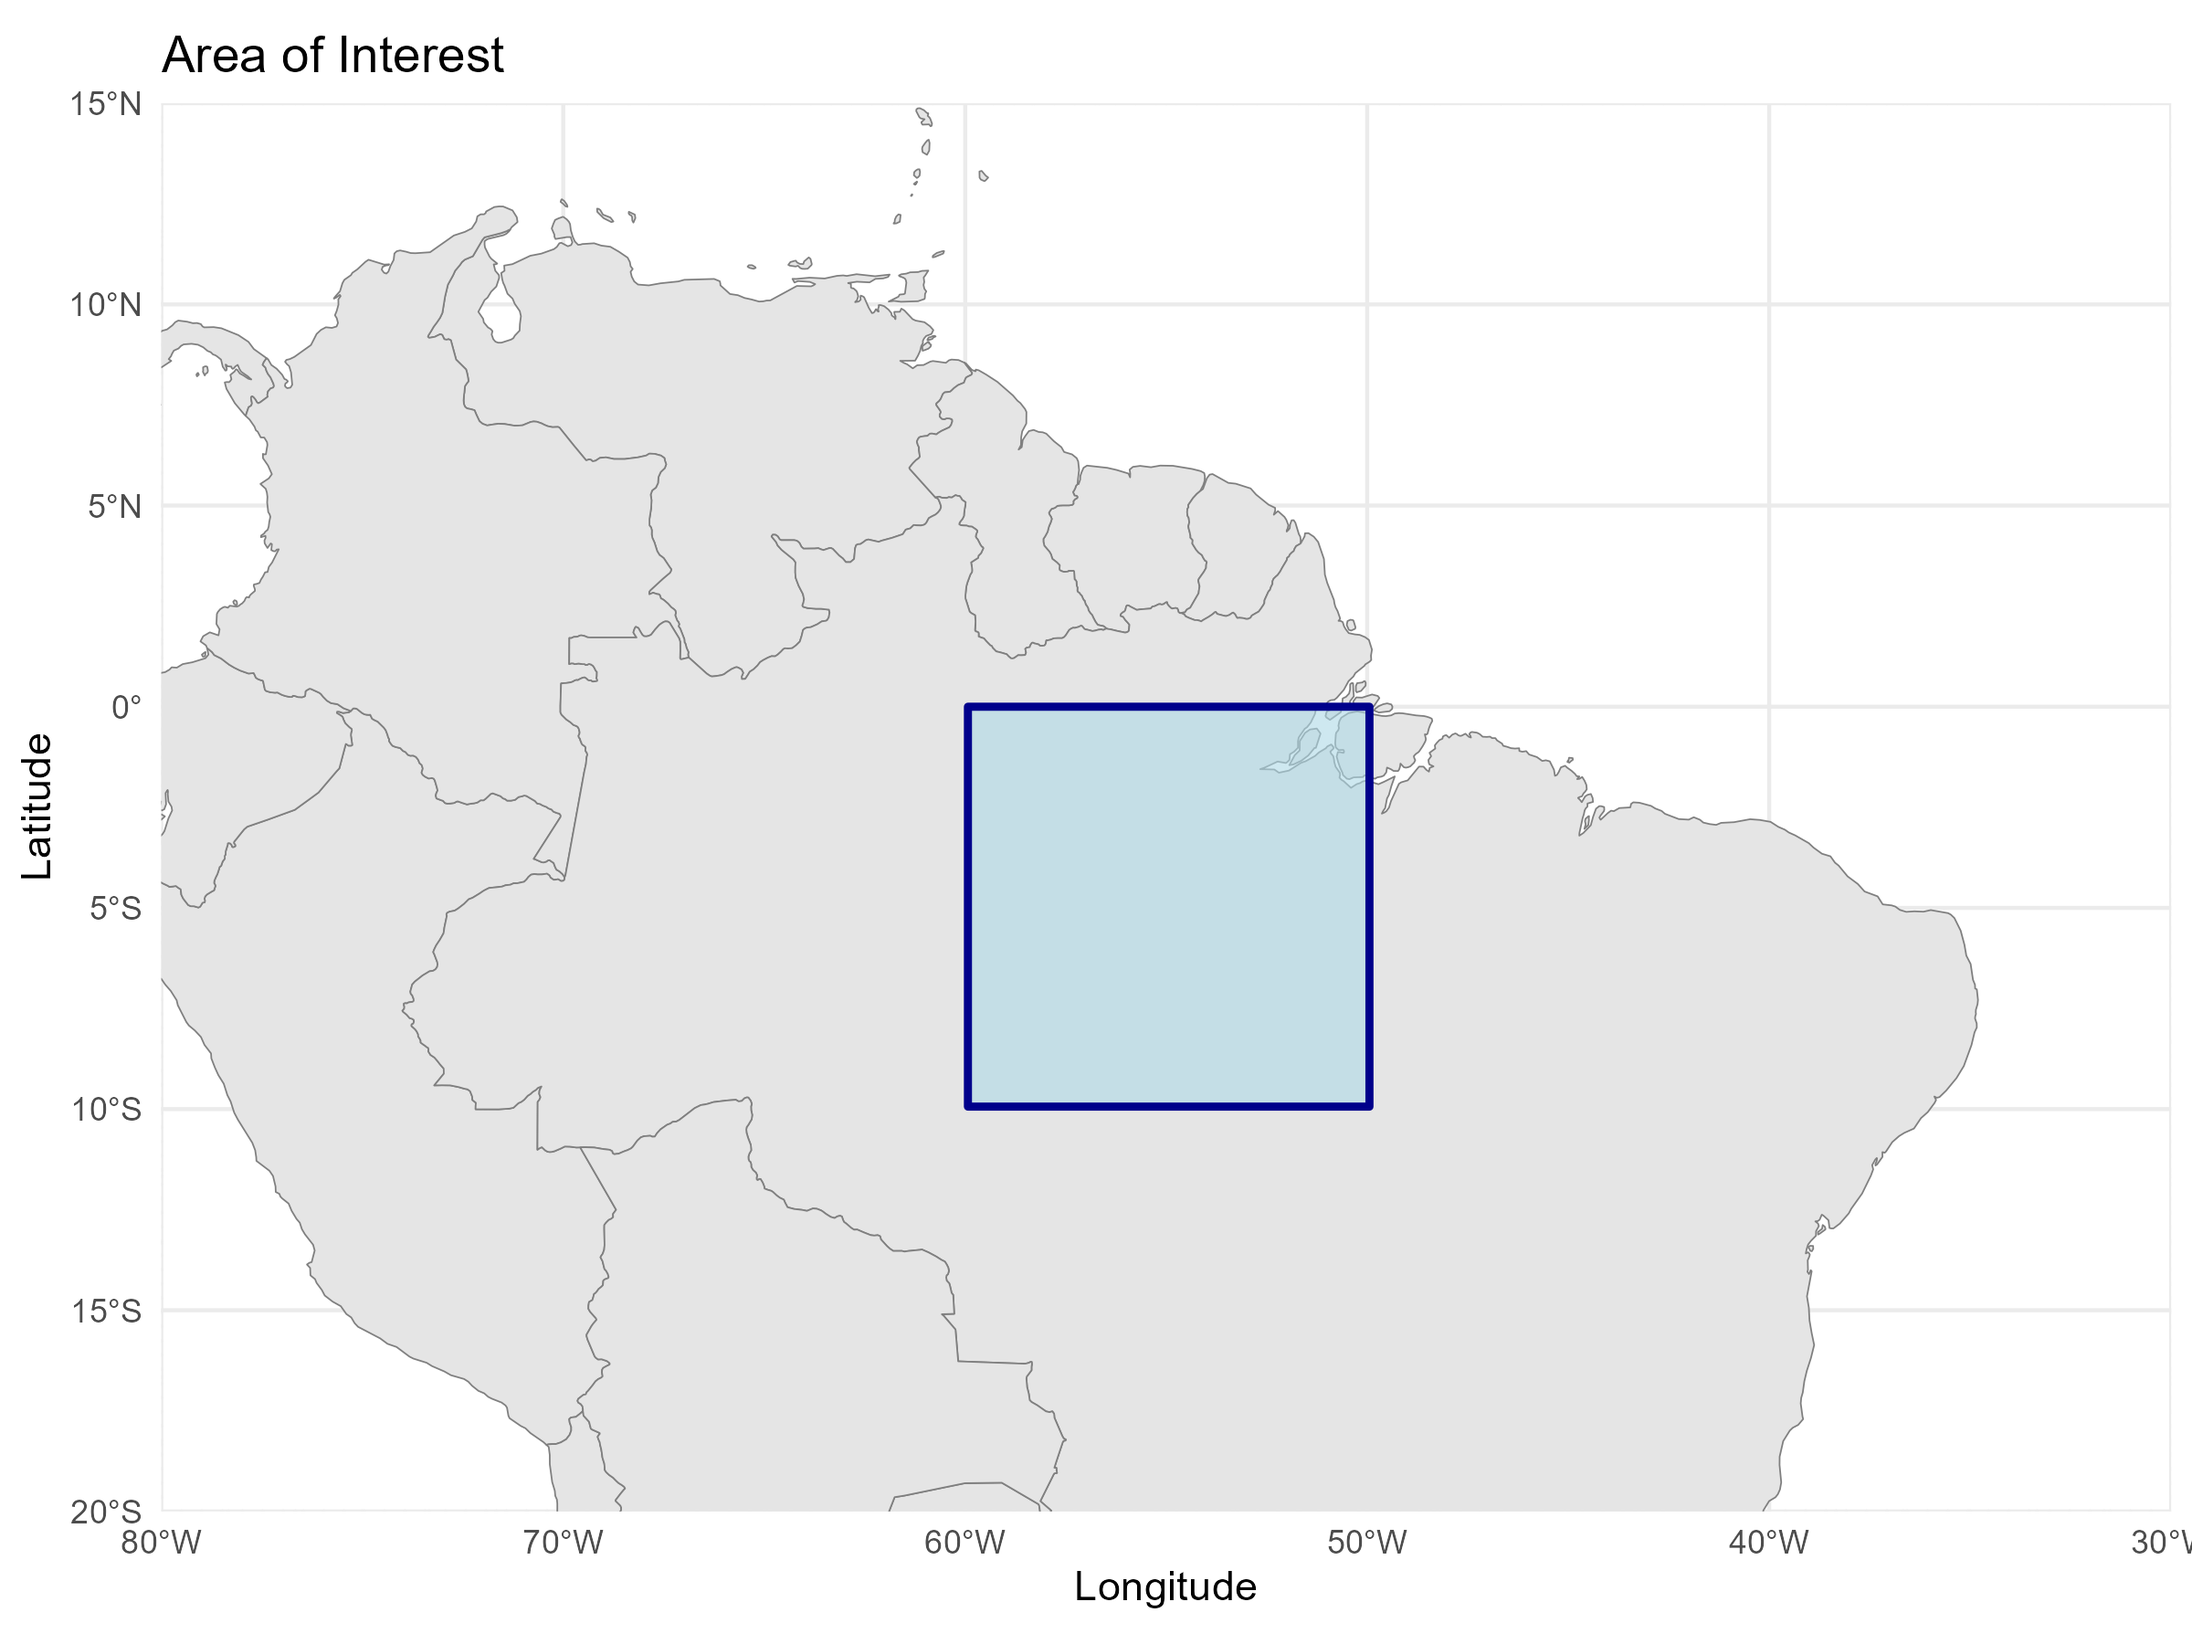
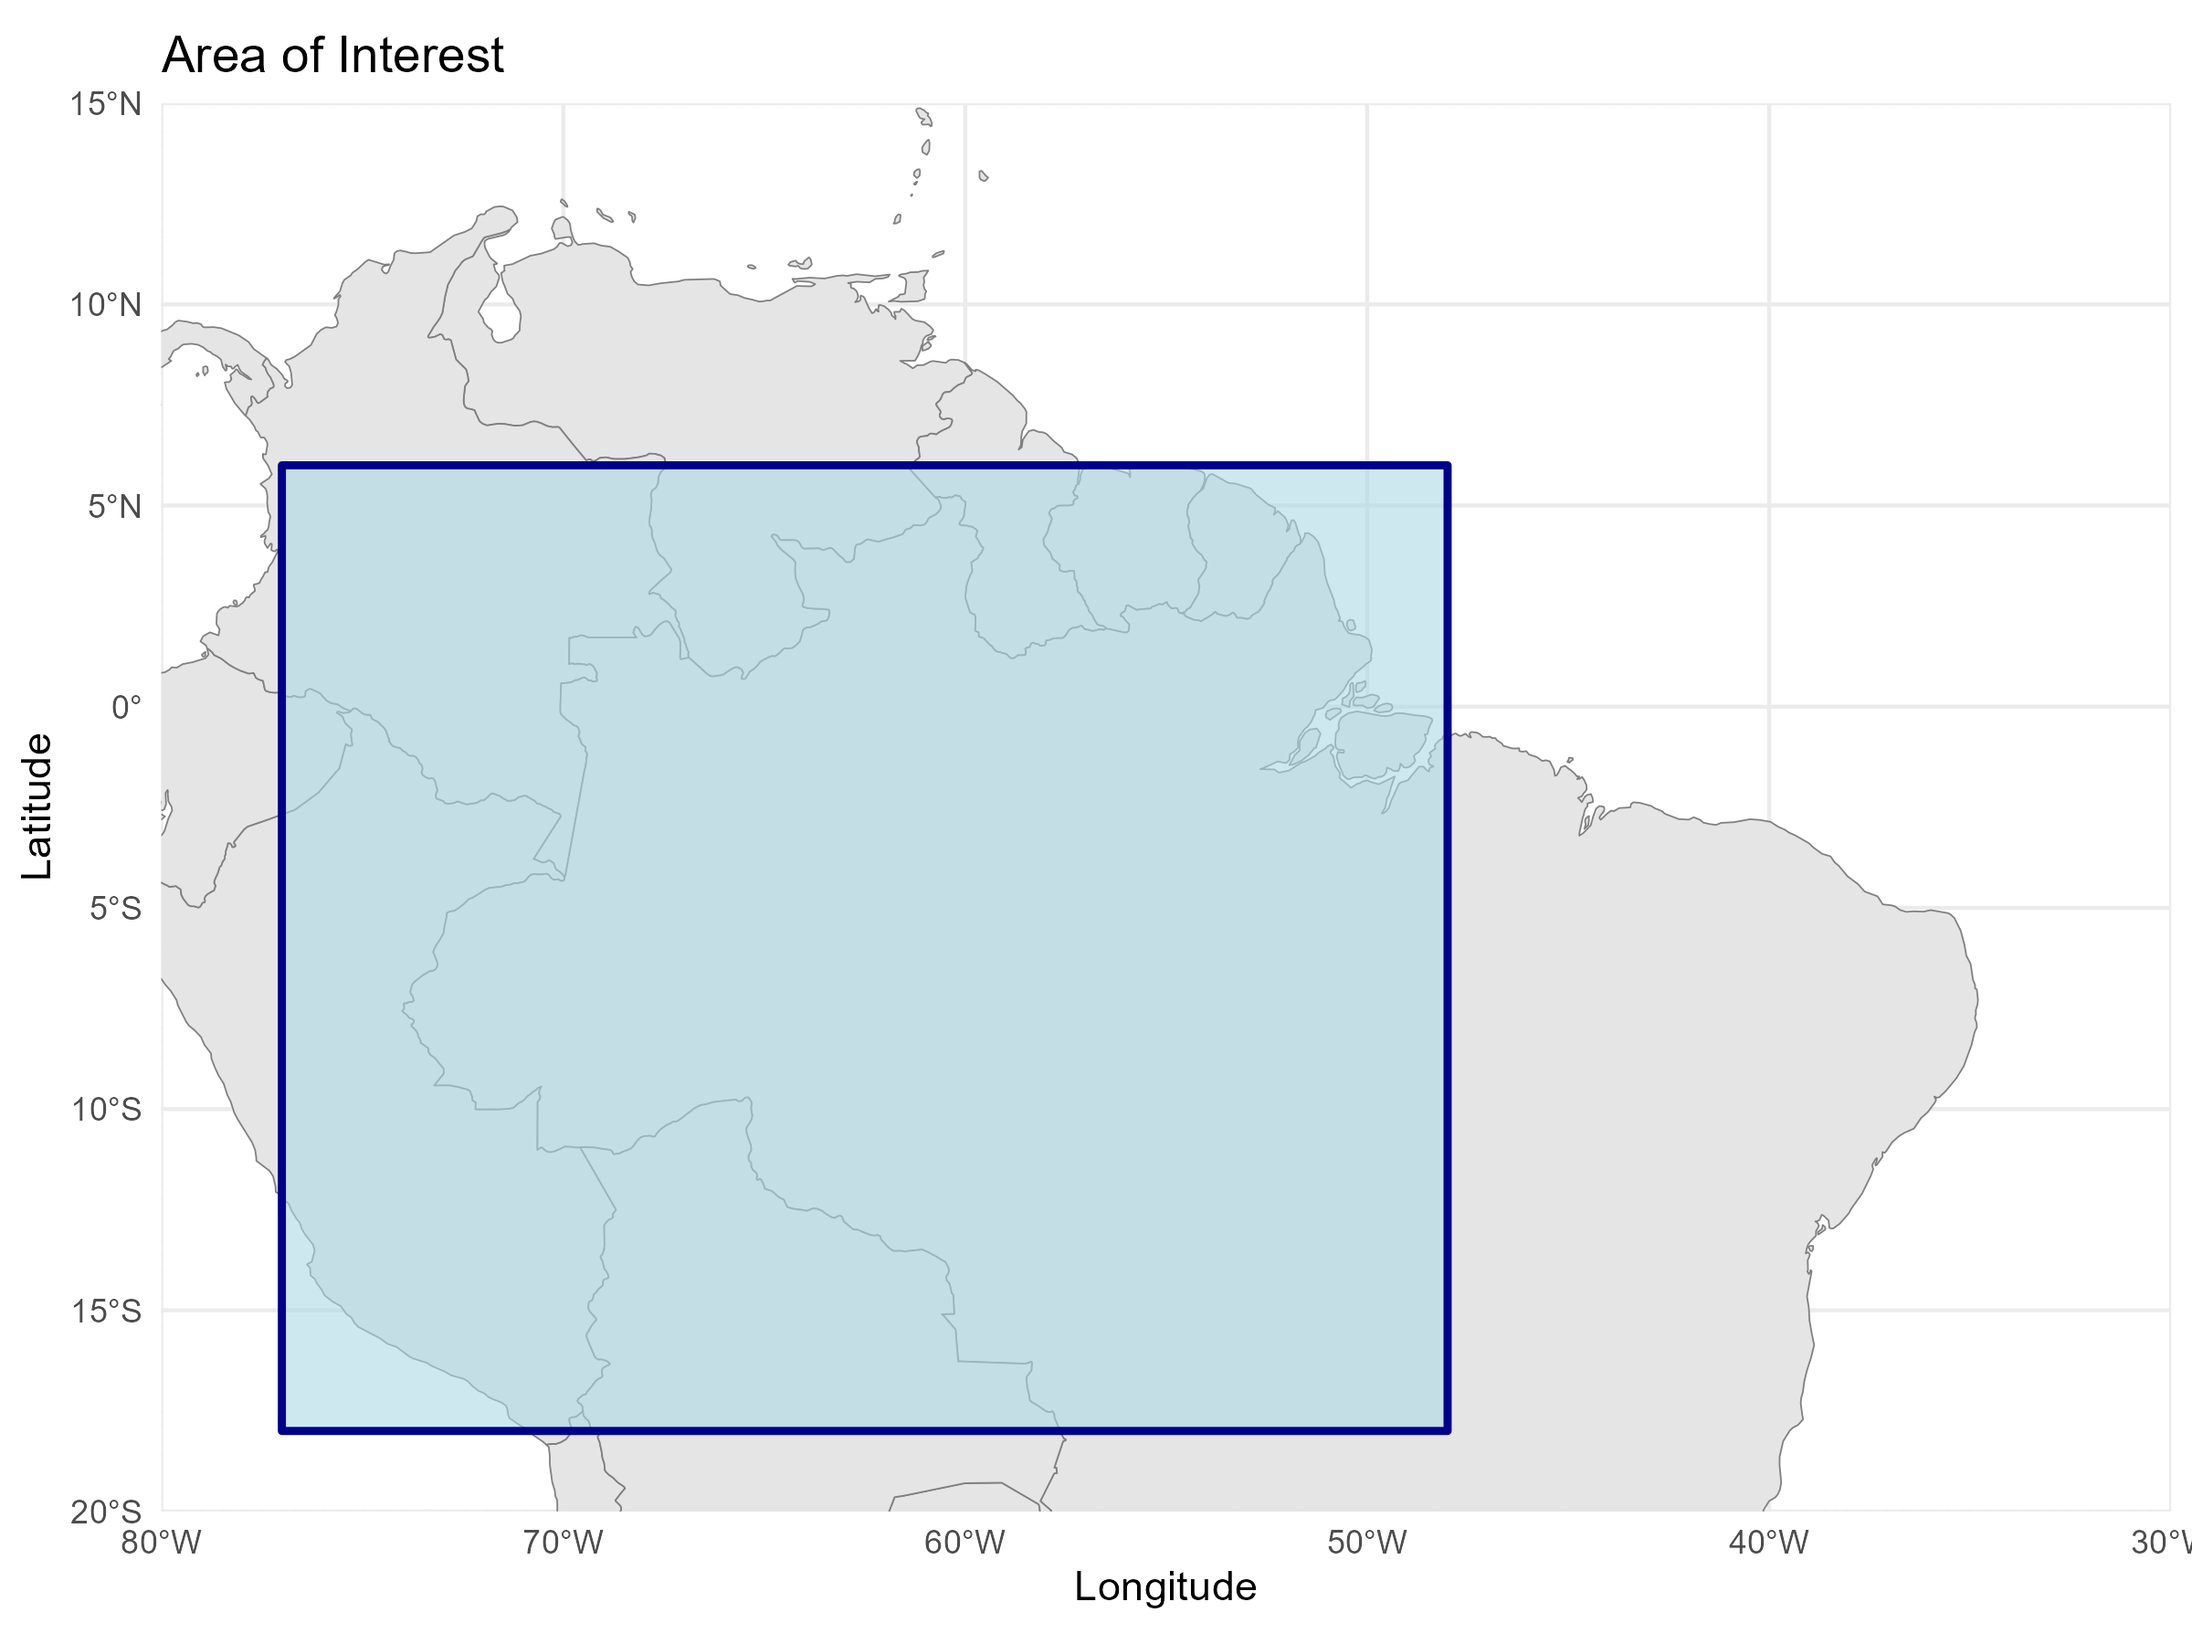
1106

Changed region(s): [[0.125, 0.28, 0.6875, 0.8711]]

diff --git a/README.md b/README.md
@@ -31,19 +31,16 @@ Both data sets are well above 100 MB, therefore they are not included in the rep
 
 The GRACE-FO data has a monthly temporal resolution, ranging from April 2002 to the present. It is a global data set, so the area of interest will have to be cut out in later data processing.
 
-The MODIS data is a yearly average from March 2003 - March 2004 and from March 2024 - March 2025.The area of interest is as follows:
+The MODIS data is a yearly average from March 2000 - March 2001 and from March 2024 - March 2025.The area of interest is as follows:
 
 Corner Coordinates:
 
-Upper Left  ( -59.9329288,   0.0000000) ( 59d55'58.54"W,  0d 0' 0.01"N)
+Upper Left  (-77.0000000,  6.0000000)
 
-Lower Left  ( -59.9329288,  -9.9386031) ( 59d55'58.54"W,  9d56'18.97"S)
+Lower Left  (-77.0000000, -18.0000000)
 
-Upper Right ( -49.9441074,   0.0000000) ( 49d56'38.79"W,  0d 0' 0.01"N)
+Upper Right (-48.0000000,  6.0000000)
 
-Lower Right ( -49.9441074,  -9.9386031) ( 49d56'38.79"W,  9d56'18.97"S)
+Lower Right ( -48.0000000, -18.0000000)
 
-The proper granules can also be found via the field "granule search", the two data sets to be downloaded are:
-
-MOD44B.A2003065.h12v09.061.2022281001104
-MOD44B.A2024065.h12v09.061.2025133155809
+The proper granules can be found by inputting these coordinates in the spatial filter, which will result in 12 granules for each of the time periods.
